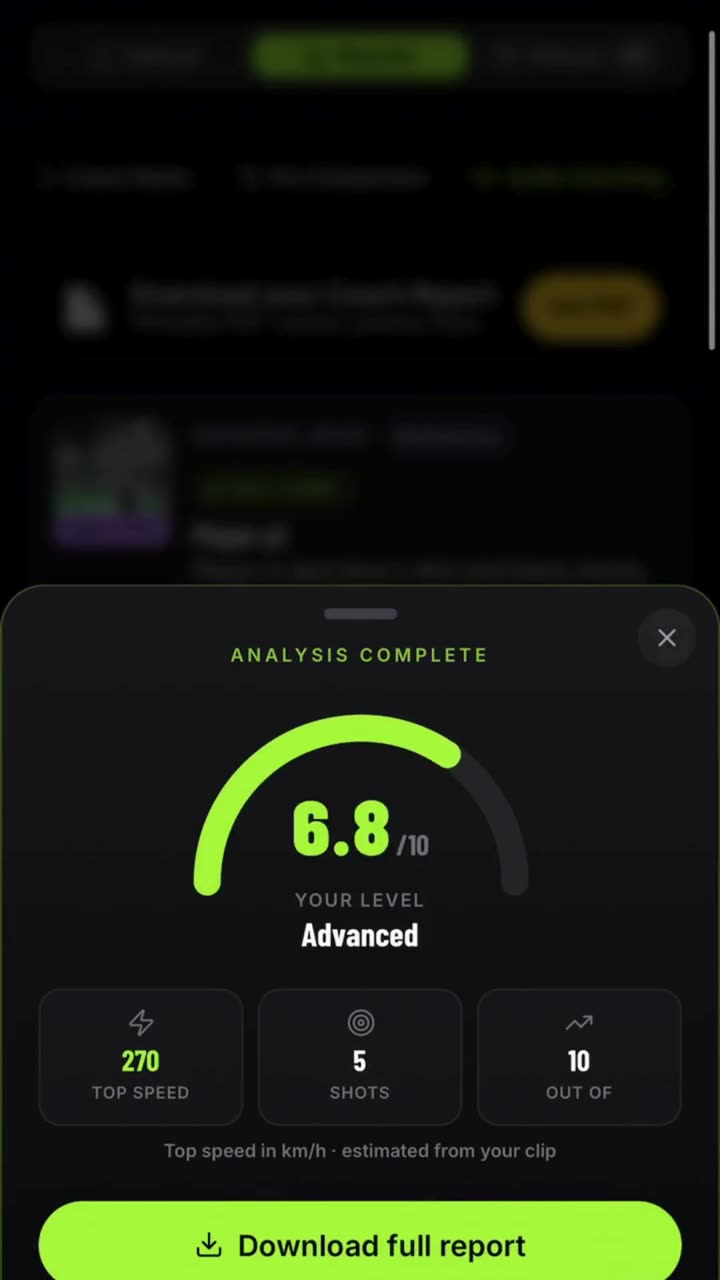
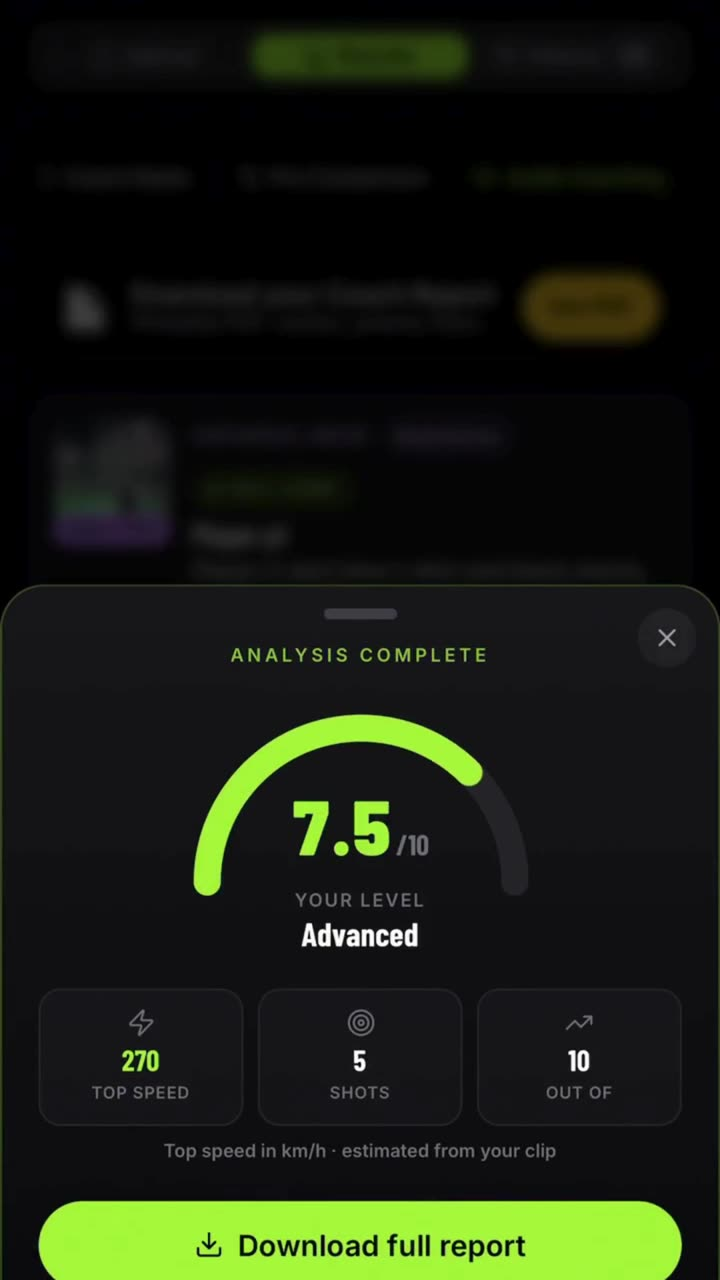
Home hero redesign: fix video crop (9:16), restore branding, cleaner device frame
Live mobile feedback: hero looked bare and the demo didn't fit its frame.
- ROOT CAUSE of "video not fitting": the device frame was aspect-[9/19] while
  the clip is 1080x1920 (9:16), so object-cover zoomed and cropped it. Frame is
  now aspect-[9/16] — exact fit, no crop.
- Restore the Formanti logo on mobile (branding was hidden); hero now reads
  brand -> headline -> demo -> CTA on mobile via a 3-block grid, while desktop
  keeps two columns with the demo spanning both rows.
- Cleaner device: thin gradient bezel + lime bloom + ring, no fake notch;
  bigger play button and a "Watch it work - 25s" pill.
- Poster is now the settled 7.5/Advanced score screen (earlier fast-seek grabbed
  a mid-animation frame).
- Tighter mobile sizing/padding so brand + headline + demo + CTA fit one screen.

diff --git a/frontend/src/pages/LandingPage.jsx b/frontend/src/pages/LandingPage.jsx
@@ -210,7 +210,7 @@ export default function LandingPage() {
       />
 
       {/* ============ HERO ============ */}
-      <section className="relative min-h-[92vh] flex items-center justify-center overflow-hidden pt-24 pb-16">
+      <section className="relative min-h-[92vh] flex items-center justify-center overflow-hidden pt-20 sm:pt-24 pb-12 sm:pb-16">
         {/* Background stack: photo → wash → vignette → lime bloom → grid.
             Layering (rather than a single flat gradient) is what stops the
             hero reading as "text on a dark rectangle". */}
@@ -238,65 +238,75 @@ export default function LandingPage() {
           }} />
 
         <div className="relative z-10 container mx-auto px-4 max-w-6xl w-full">
-          <div className="grid lg:grid-cols-2 gap-8 lg:gap-10 items-center">
-            {/* LEFT: the pitch */}
-            <div className="text-center lg:text-left">
-              {/* Brand mark — desktop only; on mobile the navbar already shows
-                  the logo and the phone leads, so a second mark just adds height. */}
-              <motion.div initial="hidden" animate="visible" variants={rise} className="hidden lg:block">
-                <FormantiLogo className="h-9 md:h-11 mx-auto lg:mx-0 mb-5" markClassName="h-8 md:h-10"
-                  textClassName="font-heading font-bold text-2xl md:text-3xl uppercase tracking-tight text-white" />
+          {/* Hero grid. Three blocks so MOBILE reads brand → hook → demo → CTA
+              (a first-time ad visitor must see who we are and what they get
+              before any scroll), while DESKTOP stays two columns with the demo
+              spanning both rows on the right. */}
+          <div className="flex flex-col lg:grid lg:grid-cols-2 gap-y-5 lg:gap-x-12 lg:gap-y-0 items-center">
+
+            {/* 1 — brand + headline */}
+            <div className="order-1 w-full text-center lg:text-left lg:col-start-1 lg:row-start-1 lg:self-end">
+              <motion.div initial="hidden" animate="visible" variants={rise}>
+                <FormantiLogo className="h-8 sm:h-9 lg:h-11 mx-auto lg:mx-0 mb-4 lg:mb-5" markClassName="h-7 sm:h-8 lg:h-10"
+                  textClassName="font-heading font-bold text-xl sm:text-2xl lg:text-3xl uppercase tracking-tight text-white" />
               </motion.div>
 
               <motion.div initial="hidden" animate="visible" custom={0.05} variants={rise}>
-                <div className="inline-flex items-center gap-2 px-4 py-1.5 rounded-full bg-lime-400/10 border border-lime-400/25 mb-5 backdrop-blur-sm" data-testid="hero-badge">
+                <div className="inline-flex items-center gap-2 px-3.5 py-1 rounded-full bg-lime-400/10 border border-lime-400/25 mb-4 lg:mb-5 backdrop-blur-sm" data-testid="hero-badge">
                   <Zap className="w-3.5 h-3.5 text-lime-400" />
-                  <span className="text-xs sm:text-sm font-medium text-lime-300 tracking-wide uppercase">AI Sports Coaching</span>
+                  <span className="text-[11px] sm:text-sm font-medium text-lime-300 tracking-wide uppercase">AI Sports Coaching</span>
                 </div>
               </motion.div>
 
               <motion.h1 initial="hidden" animate="visible" custom={0.1} variants={rise}
-                className="font-heading font-black text-[2.75rem] leading-[0.85] sm:text-6xl lg:text-7xl tracking-tighter uppercase mb-5" data-testid="hero-heading">
-                <span className="block text-zinc-500 text-2xl sm:text-3xl tracking-tight mb-2 sm:mb-3">Film one rally.</span>
+                className="font-heading font-black text-[2.5rem] leading-[0.85] sm:text-6xl lg:text-7xl tracking-tighter uppercase" data-testid="hero-heading">
+                <span className="block text-zinc-500 text-xl sm:text-3xl tracking-tight mb-1.5 sm:mb-3">Film one rally.</span>
                 <span className="block text-white">Get coached</span>
                 <span className="block neon-glow text-lime-400">like a pro.</span>
               </motion.h1>
+            </div>
 
+            {/* 2 — the demo, in a device frame (spans both rows on desktop) */}
+            <motion.div initial="hidden" animate="visible" custom={0.35} variants={rise}
+              className="order-2 lg:col-start-2 lg:row-start-1 lg:row-span-2 flex justify-center lg:justify-end lg:self-center">
+              <DemoPhone />
+            </motion.div>
+
+            {/* 3 — pitch + CTA */}
+            <div className="order-3 w-full text-center lg:text-left lg:col-start-1 lg:row-start-2 lg:self-start">
               <motion.p initial="hidden" animate="visible" custom={0.3} variants={rise}
-                className="text-base sm:text-lg text-zinc-400 max-w-xl mx-auto lg:mx-0 mb-6 leading-relaxed" data-testid="hero-subtitle">
+                className="hidden lg:block text-base sm:text-lg text-zinc-400 max-w-xl mx-auto lg:mx-0 mb-6 mt-6 leading-relaxed" data-testid="hero-subtitle">
                 Our AI breaks your clip down shot by shot, shows you the posture behind each one,
                 and turns it into drills, a plan and a written report.
               </motion.p>
 
-              {/* Sport pills — one flowing row, quieter than the headline. */}
+              <motion.div initial="hidden" animate="visible" custom={0.5} variants={rise}
+                className="flex flex-col sm:flex-row items-center justify-center lg:justify-start gap-3 sm:gap-4">
+                <Button onClick={handleCTA} size="lg" data-testid="hero-cta-btn"
+                  className="w-full sm:w-auto max-w-[320px] bg-lime-400 text-black hover:bg-lime-300 font-bold uppercase tracking-wide px-8 sm:px-10 py-6 text-base sm:text-lg rounded-full shadow-[0_0_30px_rgba(163,230,53,0.25)] hover:shadow-[0_0_45px_rgba(163,230,53,0.45)] transition-all hover:scale-[1.03] active:scale-95">
+                  Analyze my first clip <ChevronRight className="w-5 h-5 ml-1" />
+                </Button>
+                <Button onClick={() => navigate("/demo")}
+                  variant="ghost" size="lg"
+                  className="hidden sm:inline-flex w-full sm:w-auto text-zinc-300 hover:text-white bg-zinc-900/50 backdrop-blur-sm border border-zinc-700 hover:border-zinc-500 rounded-full px-8 py-6 text-base sm:text-lg transition-all">
+                  <Play className="w-5 h-5 mr-1.5" /> See a sample analysis
+                </Button>
+              </motion.div>
+
+              <motion.p initial="hidden" animate="visible" custom={0.55} variants={rise}
+                className="text-xs sm:text-sm text-lime-400/90 font-medium mt-3 lg:mt-4">
+                🪙 Free to start — 100 tokens on signup, enough for 1 analysis.
+              </motion.p>
+
+              {/* Sport pills — quieter than the headline, below the CTA on mobile. */}
               <motion.div initial="hidden" animate="visible" custom={0.4} variants={rise}
-                className="flex flex-wrap justify-center lg:justify-start gap-1.5 sm:gap-2 mb-7 max-w-xl mx-auto lg:mx-0">
+                className="flex flex-wrap justify-center lg:justify-start gap-1.5 sm:gap-2 mt-5 max-w-xl mx-auto lg:mx-0">
                 {SPORTS.map(s => (
                   <span key={s.key} className="inline-flex items-center gap-1.5 px-2.5 py-1 rounded-full border border-zinc-800 bg-zinc-900/60 backdrop-blur-sm text-[11px] sm:text-xs text-zinc-300">
                     <span>{s.emoji}</span> {s.label}
                   </span>
                 ))}
               </motion.div>
-
-              {/* Desktop CTAs. On mobile the phone leads and its CTA sits right
-                  under the phone (below) so ad visitors see it without scrolling. */}
-              <motion.div initial="hidden" animate="visible" custom={0.5} variants={rise}
-                className="hidden lg:flex lg:flex-row items-center lg:justify-start gap-4">
-                <Button onClick={handleCTA} size="lg" data-testid="hero-cta-btn"
-                  className="w-full sm:w-auto bg-lime-400 text-black hover:bg-lime-300 font-bold uppercase tracking-wide px-8 sm:px-10 py-6 text-base sm:text-lg rounded-full shadow-[0_0_30px_rgba(163,230,53,0.25)] hover:shadow-[0_0_45px_rgba(163,230,53,0.45)] transition-all hover:scale-[1.03] active:scale-95">
-                  Analyze my first clip <ChevronRight className="w-5 h-5 ml-1" />
-                </Button>
-                <Button onClick={() => navigate("/demo")}
-                  variant="ghost" size="lg"
-                  className="w-full sm:w-auto text-zinc-300 hover:text-white bg-zinc-900/50 backdrop-blur-sm border border-zinc-700 hover:border-zinc-500 rounded-full px-8 py-6 text-base sm:text-lg transition-all">
-                  <Play className="w-5 h-5 mr-1.5" /> See a sample analysis
-                </Button>
-              </motion.div>
-
-              <motion.p initial="hidden" animate="visible" custom={0.55} variants={rise}
-                className="hidden lg:block text-sm text-lime-400/90 font-medium mt-4">
-                🪙 Free to start — 100 tokens on signup, enough for 1 analysis.
-              </motion.p>
 
               <motion.div initial="hidden" animate="visible" custom={0.6} variants={rise}
                 className="mt-5 flex flex-col items-center lg:items-start">
@@ -311,28 +321,6 @@ export default function LandingPage() {
                 </Link>
               </motion.div>
             </div>
-
-            {/* RIGHT: the demo, in a phone — visible the moment the page opens.
-                Tap-to-play walkthrough reel (see DemoPhone). On mobile the
-                primary CTA sits right under the phone so it's on the first screen. */}
-            <motion.div initial="hidden" animate="visible" custom={0.35} variants={rise}
-              className="flex flex-col items-center lg:items-end order-first lg:order-last">
-              <DemoPhone />
-              <span className="hidden lg:block mt-2 text-[11px] uppercase tracking-wider text-zinc-500 font-semibold">A quick walkthrough</span>
-
-              {/* Mobile-only CTA under the phone */}
-              <div className="lg:hidden mt-4 w-full max-w-[300px] flex flex-col items-center gap-2">
-                <Button onClick={handleCTA} size="lg"
-                  className="w-full bg-lime-400 text-black hover:bg-lime-300 font-bold uppercase tracking-wide py-6 text-base rounded-full shadow-[0_0_30px_rgba(163,230,53,0.25)] active:scale-95">
-                  Analyze my first clip <ChevronRight className="w-5 h-5 ml-1" />
-                </Button>
-                <p className="text-xs text-lime-400/90 font-medium">🪙 Free — 100 tokens on signup</p>
-                <button onClick={() => navigate("/demo")}
-                  className="text-xs text-zinc-400 hover:text-white underline underline-offset-2">
-                  or watch a sample analysis
-                </button>
-              </div>
-            </motion.div>
           </div>
 
           {/* FACTS — folded into the hero so the proof sits with the pitch and

diff --git a/frontend/src/components/DemoPhone.jsx b/frontend/src/components/DemoPhone.jsx
@@ -1,15 +1,18 @@
 /**
- * DemoPhone — the walkthrough reel inside a phone mockup.
+ * DemoPhone — the walkthrough reel in a clean device frame.
  *
- * Portrait 9:16 clip, so it lives in a phone frame. CLICK-TO-PLAY (poster +
- * play button), not autoplay: the reel is ~3 min with narration, so we neither
- * force a multi-MB download on every landing visitor nor mute the audio that
- * carries the point. On tap it loads and plays with sound + native controls.
+ * IMPORTANT: the frame is aspect-[9/16] to MATCH the source clip (1080x1920).
+ * It used to be 9/19, which made object-cover zoom and crop the video/poster —
+ * that's what made the demo look "not fitting". Keep these in sync if the clip
+ * is ever swapped.
  *
- * Rendered in the hero (right column) so the demo is visible the moment the
- * home page opens. Swappable: drop a new portrait mp4 at
- * src/assets/demo/formanti-demo.mp4 (+ poster jpg) — keep the .vercelignore
- * negation for the mp4 so Vercel bundles it.
+ * CLICK-TO-PLAY (poster + play button), not autoplay: the reel carries audio and
+ * we don't want a multi-MB download on every landing visit. On tap it loads and
+ * plays with sound + native controls.
+ *
+ * Swappable: drop a new portrait mp4 at src/assets/demo/formanti-demo-short.mp4
+ * (+ poster jpg) — keep the .vercelignore negation for the mp4 so Vercel
+ * bundles it.
  */
 import { useState } from "react";
 import { Play } from "lucide-react";
@@ -20,43 +23,48 @@ export default function DemoPhone({ className = "" }) {
   const [playing, setPlaying] = useState(false);
 
   return (
-    <div className={`relative w-[180px] sm:w-[220px] lg:w-[250px] shrink-0 ${className}`}>
-      {/* bezel */}
-      <div className="relative rounded-[2.4rem] border-[6px] border-zinc-800 bg-black shadow-2xl shadow-black/60 overflow-hidden aspect-[9/19]">
-        {/* notch */}
-        <div className="absolute top-0 left-1/2 -translate-x-1/2 z-20 w-24 h-5 bg-zinc-800 rounded-b-2xl" />
-        {playing ? (
-          <video
-            src={demoReel}
-            poster={demoPoster}
-            className="absolute inset-0 w-full h-full object-cover"
-            controls
-            autoPlay
-            playsInline
-          />
-        ) : (
-          <button
-            type="button"
-            onClick={() => setPlaying(true)}
-            aria-label="Play the Formanti walkthrough"
-            className="absolute inset-0 w-full h-full group"
-          >
-            <img
-              src={demoPoster}
-              alt="Formanti walkthrough preview"
+    <div className={`relative w-[185px] sm:w-[215px] lg:w-[265px] shrink-0 ${className}`}>
+      {/* lime bloom behind the device so it lifts off the dark background */}
+      <div className="pointer-events-none absolute -inset-6 bg-lime-400/15 blur-3xl rounded-full" />
+
+      {/* device bezel */}
+      <div className="relative rounded-[2rem] p-[5px] bg-gradient-to-b from-zinc-700 via-zinc-800 to-zinc-900 shadow-2xl shadow-black/70 ring-1 ring-white/10">
+        <div className="relative rounded-[1.7rem] overflow-hidden bg-black aspect-[9/16]">
+          {playing ? (
+            <video
+              src={demoReel}
+              poster={demoPoster}
               className="absolute inset-0 w-full h-full object-cover"
+              controls
+              autoPlay
+              playsInline
             />
-            <span className="absolute inset-0 bg-black/25 group-hover:bg-black/10 transition-colors" />
-            <span className="absolute inset-0 flex items-center justify-center">
-              <span className="w-16 h-16 rounded-full bg-lime-400/90 group-hover:bg-lime-400 flex items-center justify-center shadow-lg shadow-lime-400/30 transition-all group-hover:scale-105">
-                <Play className="w-7 h-7 text-black ml-1" fill="currentColor" />
+          ) : (
+            <button
+              type="button"
+              onClick={() => setPlaying(true)}
+              aria-label="Play the Formanti walkthrough"
+              className="absolute inset-0 w-full h-full group"
+            >
+              <img
+                src={demoPoster}
+                alt="A real Formanti analysis result — score, level and full report"
+                className="absolute inset-0 w-full h-full object-cover"
+              />
+              <span className="absolute inset-0 bg-gradient-to-t from-black/70 via-transparent to-black/20 group-hover:from-black/60 transition-colors" />
+              <span className="absolute inset-0 flex items-center justify-center">
+                <span className="w-14 h-14 rounded-full bg-lime-400 flex items-center justify-center shadow-lg shadow-lime-400/40 transition-transform group-hover:scale-110 group-active:scale-95">
+                  <Play className="w-6 h-6 text-black ml-0.5" fill="currentColor" />
+                </span>
               </span>
-            </span>
-            <span className="absolute bottom-3 left-1/2 -translate-x-1/2 text-[11px] uppercase tracking-wider font-bold text-white/90 bg-black/50 backdrop-blur-sm rounded-full px-3 py-1">
-              Tap to watch
-            </span>
-          </button>
-        )}
+              <span className="absolute bottom-3 inset-x-0 flex justify-center">
+                <span className="text-[10px] uppercase tracking-[0.15em] font-bold text-white/95 bg-black/60 backdrop-blur-sm rounded-full px-3 py-1">
+                  Watch it work · 25s
+                </span>
+              </span>
+            </button>
+          )}
+        </div>
       </div>
     </div>
   );
